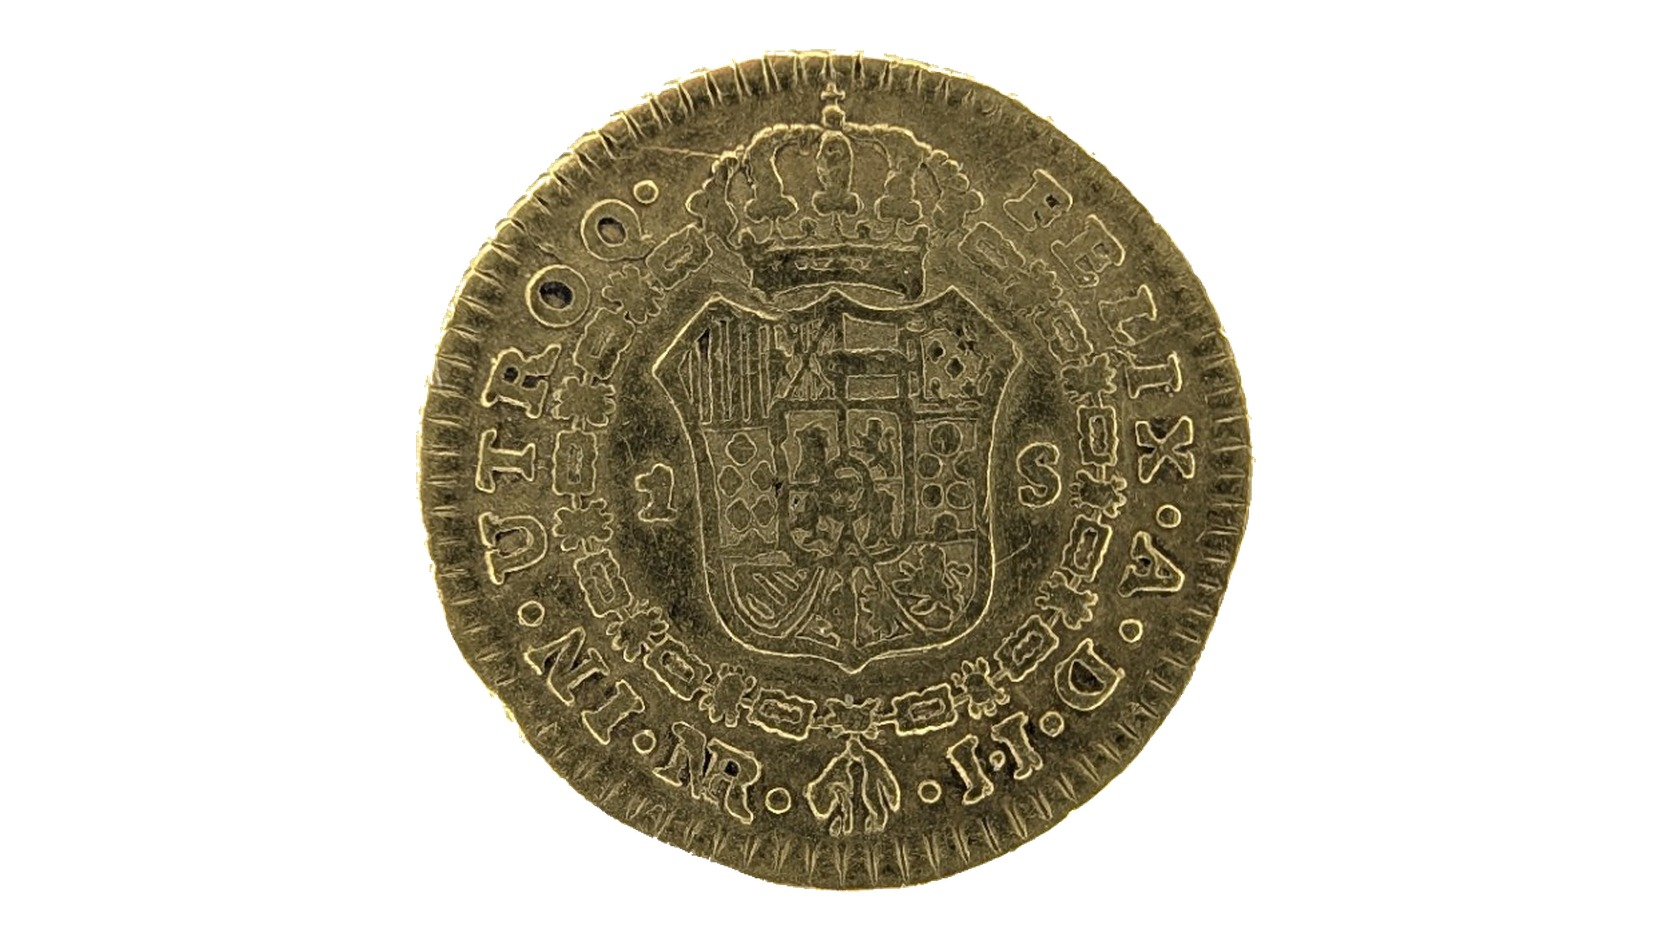
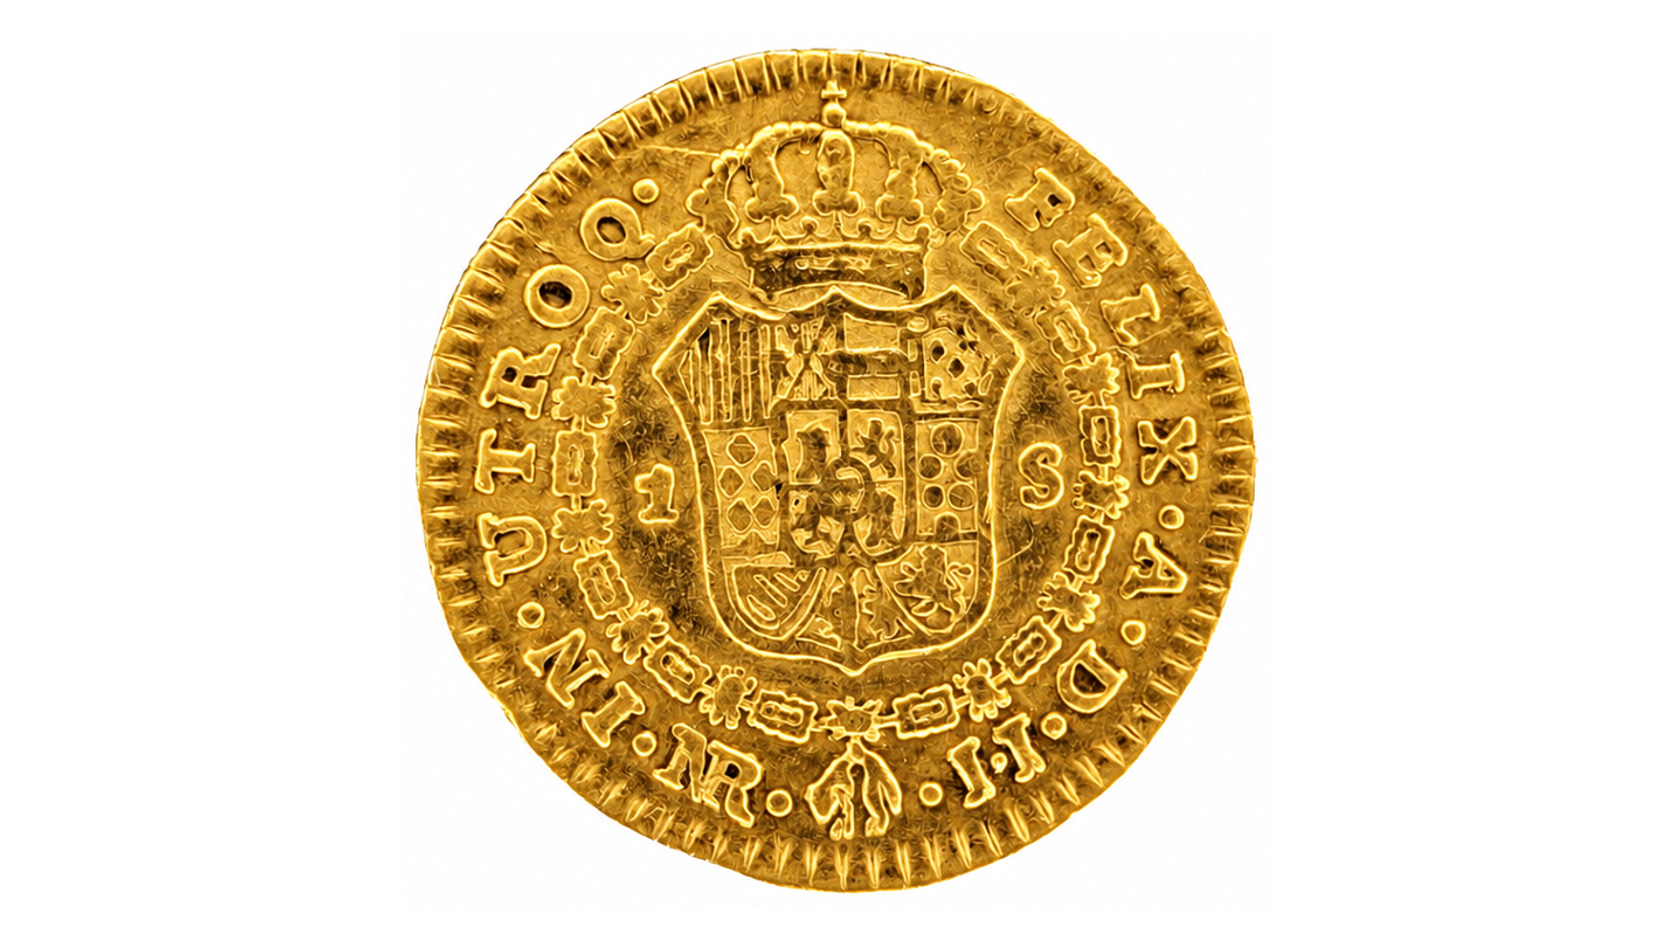
Replace the Bogotá 1795 NR–JJ 1 escudo photographs.
Use the brighter side-by-side scan for the composite and for the centered anverso and reverso, and bust the catalog image cache.

diff --git a/src/lib/images.ts b/src/lib/images.ts
@@ -10,7 +10,7 @@ export const CATALOG_HERO_VERSION = '20260829';
  * Cloudflare Image Resizing keeps the previous file for hours; the query
  * forces the homepage card and the note srcset onto the new frame.
  */
-export const CATALOG_SCAN_VERSION = '20261028';
+export const CATALOG_SCAN_VERSION = '20261028b';
 
 export function catalogAssetSrc(src: string, version: string = CATALOG_HERO_VERSION): string {
   if (!version || !src.startsWith('/')) return src;
